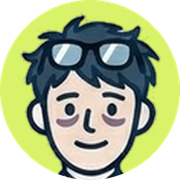
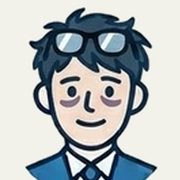
Redesign wordmark; update NOW log line
Claude-Session: https://claude.ai/code/session_01KdzmuDJnCrWvxuBkE8kmKa

diff --git a/styles.css b/styles.css
@@ -21,8 +21,6 @@ a { color: inherit; text-decoration: none; }
 .section-wrap, .site-header, .site-footer { width: min(1240px, calc(100% - 80px)); margin-inline: auto; }
 
 .site-header { height: 82px; display: flex; align-items: center; justify-content: space-between; position: absolute; z-index: 10; top: 0; left: 50%; transform: translateX(-50%); color: var(--paper-bright); }
-.wordmark { font-size: 1.15rem; font-weight: 800; letter-spacing: -.12em; }
-.wordmark span { color: var(--lime); }
 .site-header nav { display: flex; align-items: center; gap: 38px; font-size: .8rem; }
 .site-header nav a { opacity: .72; transition: opacity .2s, color .2s; }
 .site-header nav a:hover { opacity: 1; color: var(--lime); }
@@ -267,9 +265,9 @@ a.writing-item { color: inherit; }
 .contact-row a { color: var(--lime); text-decoration: underline; text-underline-offset: 4px; text-decoration-color: rgba(216,243,106,.4); }
 .contact-row a:hover { text-decoration-color: var(--lime); }
 
-.wordmark { display: inline-flex; align-items: center; gap: 12px; letter-spacing: -.02em; }
-.wordmark img { display: block; width: 48px; height: 48px; border-radius: 50%; transition: transform .2s; }
+.wordmark { display: inline-flex; align-items: center; gap: 12px; }
+.wordmark img { display: block; width: 40px; height: 40px; border-radius: 50%; transition: transform .2s; }
 .wordmark:hover img { transform: rotate(-6deg) scale(1.05); }
-.wordmark .wordmark-name { color: var(--paper-bright); font-size: 1.02rem; font-weight: 700; }
-.wordmark-name small { margin-left: 4px; color: var(--lime); font: 500 .74rem var(--mono); letter-spacing: 0; }
-@media (max-width: 620px) { .wordmark img { width: 40px; height: 40px; } .wordmark-name small { display: none; } }
+.wordmark .wordmark-name { display: flex; flex-direction: column; line-height: 1.1; color: var(--paper-bright); font-size: .95rem; font-weight: 700; letter-spacing: -.01em; }
+.wordmark-name small { margin-top: 3px; color: #8c968e; font: 500 .62rem var(--mono); letter-spacing: .16em; text-transform: uppercase; }
+@media (max-width: 620px) { .wordmark img { width: 36px; height: 36px; } }

diff --git a/script.js b/script.js
@@ -47,7 +47,7 @@ const copy = {
     logTwo: '한 종류로는 부족했다. 여러 종류의 로봇을 위한 앱',
     logThree: '서로 다른 로봇을 한 그릇에 담기',
     logFour: '동료 연구원이 직접 기능을 붙일 수 있게',
-    logNow: '그리고 지금, 이걸 쓰는 중',
+    logNow: '아직도 고군분투 중..!!',
     bottomLeft: 'PERSONAL BLOG',
     bottomMid: '개인의 기록이며 회사의 공식 입장과 무관합니다',
     company: '레인보우로보틱스',
@@ -100,7 +100,7 @@ const copy = {
     logTwo: 'One kind wasn’t enough. An app for many kinds of robots.',
     logThree: 'Different robots, one foundation.',
     logFour: 'Letting fellow researchers plug in their own ideas.',
-    logNow: 'And now, writing this.',
+    logNow: 'Still in the fight..!!',
     bottomLeft: 'PERSONAL BLOG',
     bottomMid: 'Personal views, not an official company channel',
     company: 'Rainbow Robotics',

diff --git a/index.html b/index.html
@@ -44,7 +44,7 @@
             <li><time>2025.08</time><span data-i18n="logTwo">한 종류로는 부족했다. 여러 종류의 로봇을 위한 앱</span></li>
             <li><time>2026.02</time><span data-i18n="logThree">서로 다른 로봇을 한 그릇에 담기</span></li>
             <li><time>2026.06</time><span data-i18n="logFour">동료 연구원이 직접 기능을 붙일 수 있게</span></li>
-            <li class="log-now"><time>NOW</time><span><span data-i18n="logNow">그리고 지금, 이걸 쓰는 중</span><b class="cursor" aria-hidden="true"></b></span></li>
+            <li class="log-now"><time>NOW</time><span><span data-i18n="logNow">아직도 고군분투 중..!!</span><b class="cursor" aria-hidden="true"></b></span></li>
           </ol>
         </div>
 
